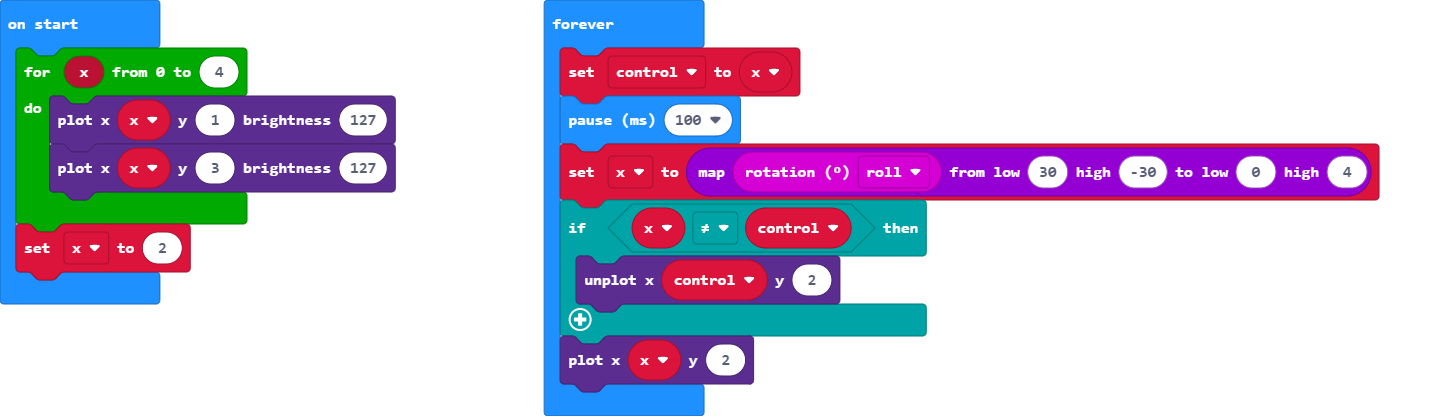
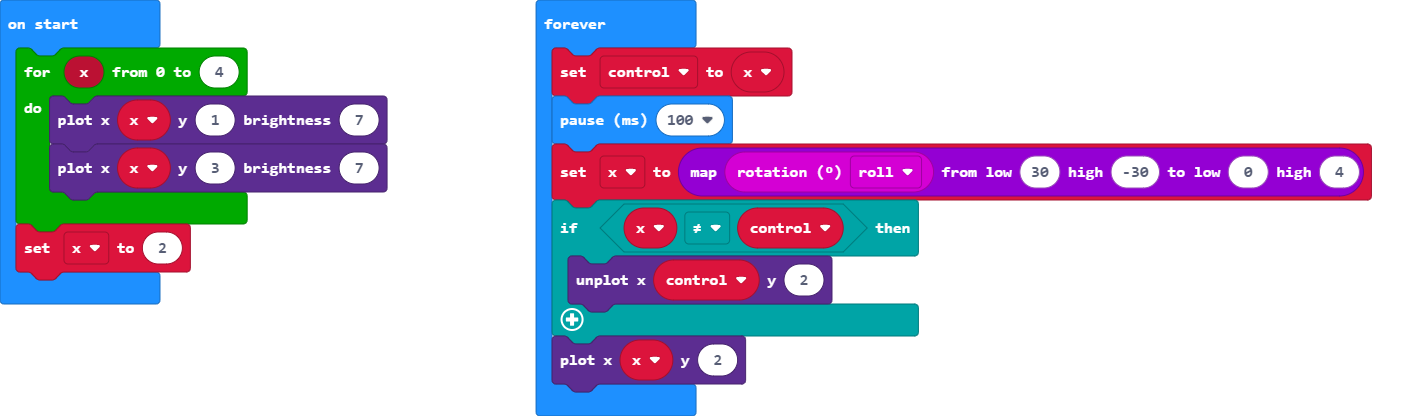
Update main.blocks, main.ts

diff --git a/main.ts b/main.ts
@@ -1,7 +1,7 @@
 let control2 = 0
 for (let x = 0; x <= 4; x++) {
-    led.plotBrightness(x, 1, 127)
-    led.plotBrightness(x, 3, 127)
+    led.plotBrightness(x, 1, 7)
+    led.plotBrightness(x, 3, 7)
 }
 let x = 2
 basic.forever(function () {
